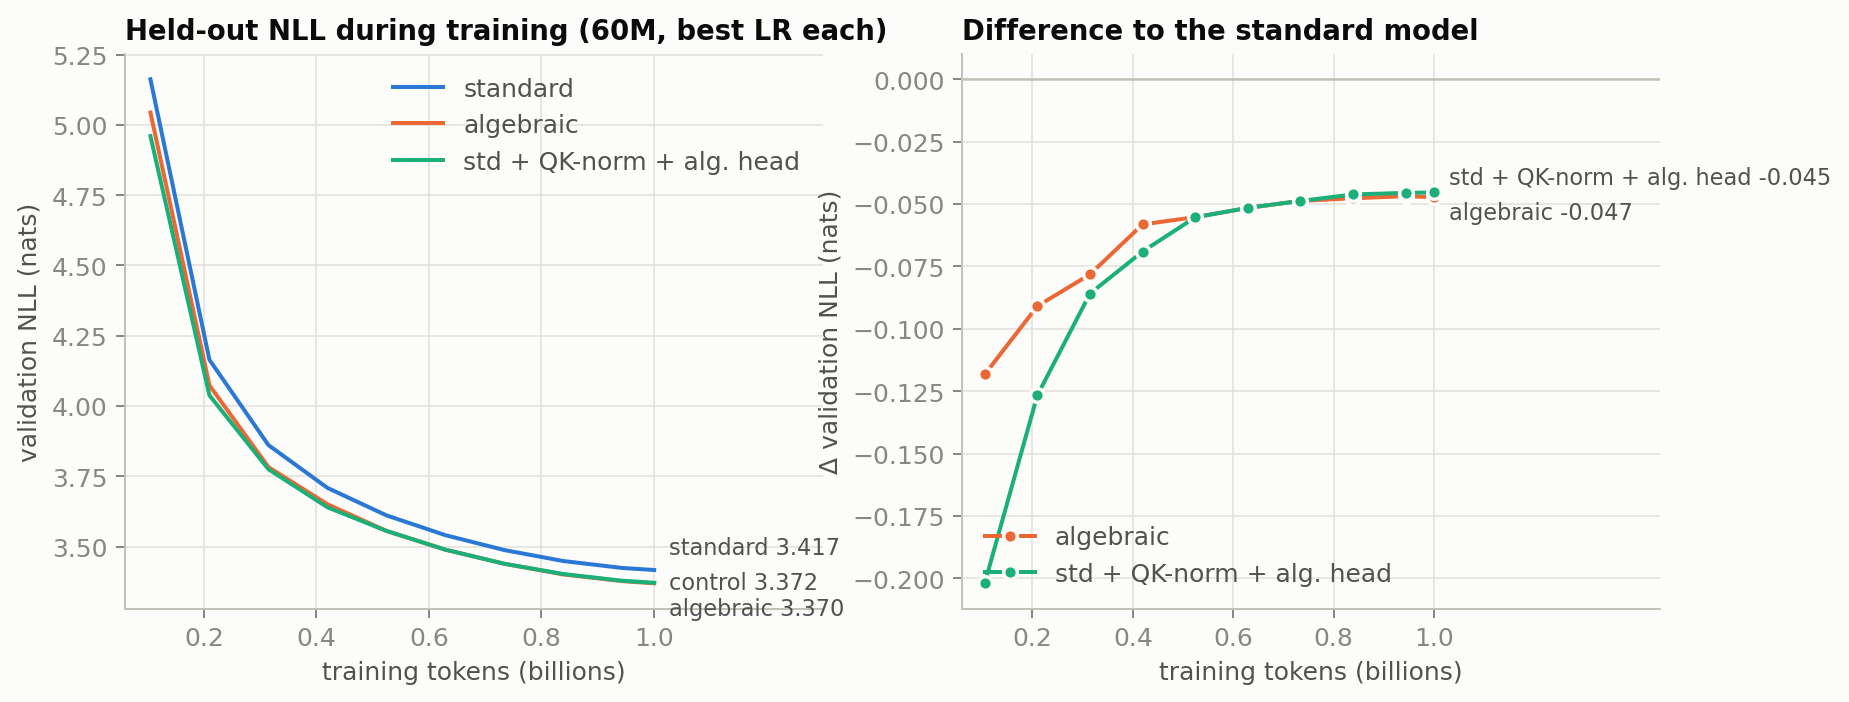
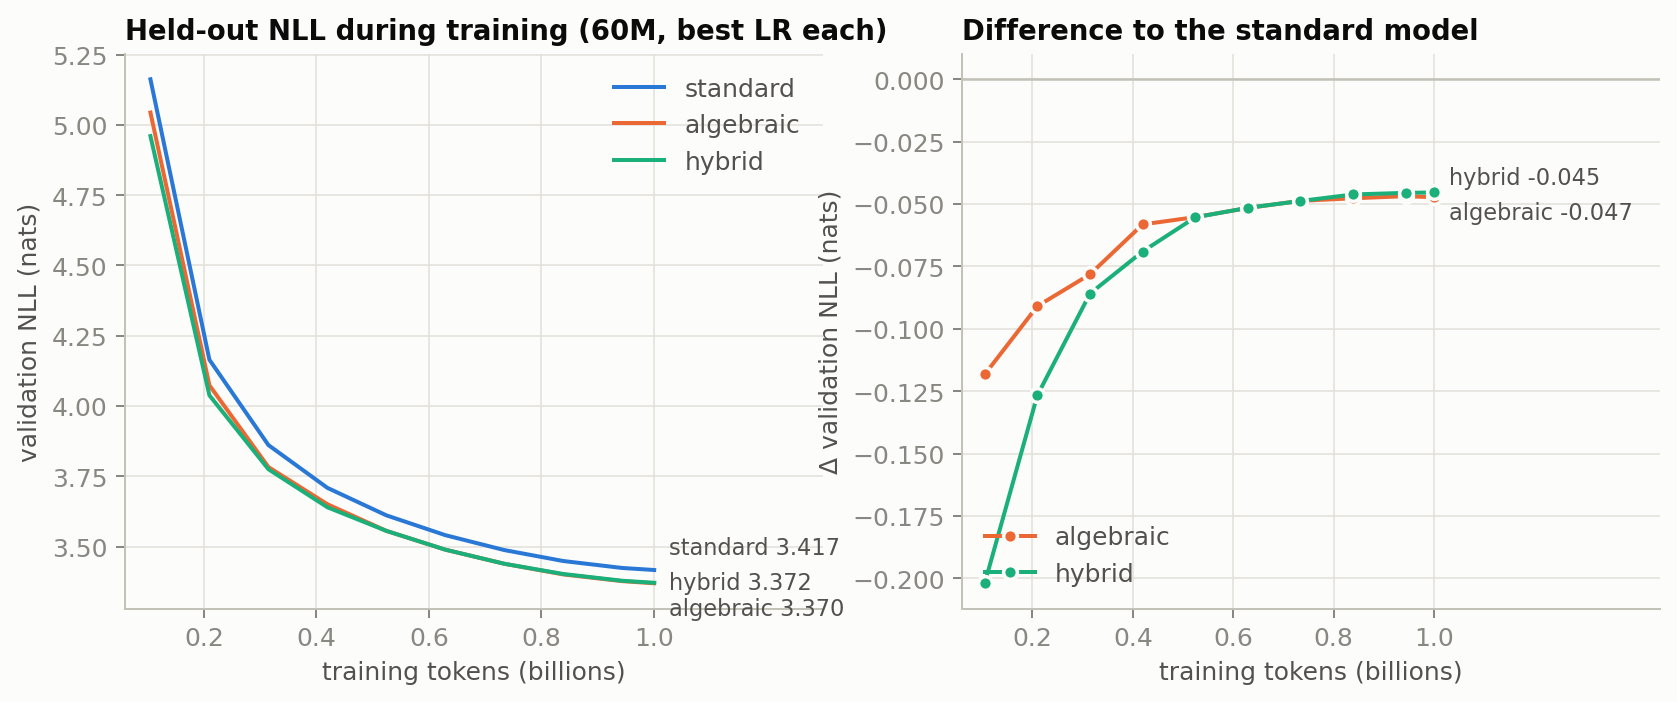
Hybrid arm in Phase 3 (60M): beats the standard by 0.045 nats at 0.88x speed
Documents the answer to 'how much algebra do we really need' (head + QK-norm)
and the 125M sweep selection (lr 3e-3 for standard and algebraic).

diff --git a/analysis/plot_figures.py b/analysis/plot_figures.py
@@ -50,17 +50,17 @@ def save(fig, name):
 def phase3():
     s = json.loads((ROOT / "results/phase3/summary.json").read_text())
     runs = s["runs"]
-    std, alg, ctl = runs[s["best"]["std"]], runs[s["best"]["alg"]], runs.get("ctrl_qk_head_lr0.003")
+    std, alg, ctl = runs[s["best"]["std"]], runs[s["best"]["alg"]], runs.get(s["best"].get("hyb", ""))
     tok = 524288 / 1e9
     fig, (a, b) = plt.subplots(1, 2, figsize=(11, 4.0))
-    for r, c, name in ((std, S1, "standard"), (alg, S2, "algebraic"), (ctl, S3, "std + QK-norm + alg. head")):
+    for r, c, name in ((std, S1, "standard"), (alg, S2, "algebraic"), (ctl, S3, "hybrid")):
         if r is None:
             continue
         xs = [p[0] * tok for p in r["curve"]]
         ys = [p[1] for p in r["curve"]]
         line(a, xs, ys, c, name, marker=False)
-        dy = {"standard": 9, "algebraic": -10, "std + QK-norm + alg. head": 0}[name]
-        end_label(a, xs[-1], ys[-1], f"{name.split(' ')[0] if name != 'std + QK-norm + alg. head' else 'control'} {ys[-1]:.3f}", dy)
+        dy = {"standard": 9, "algebraic": -10, "hybrid": 0}[name]
+        end_label(a, xs[-1], ys[-1], f"{name} {ys[-1]:.3f}", dy)
     a.set_xlim(right=1.3)
     a.set_xticks([0.2, 0.4, 0.6, 0.8, 1.0])
     a.set_title("Held-out NLL during training (60M, best LR each)")
@@ -68,7 +68,7 @@ def phase3():
     a.set_ylabel("validation NLL (nats)")
     a.legend(loc="upper right")
     base = {p[0]: p[1] for p in std["curve"]}
-    for r, c, name, dy in ((alg, S2, "algebraic", -6), (ctl, S3, "std + QK-norm + alg. head", 6)):
+    for r, c, name, dy in ((alg, S2, "algebraic", -6), (ctl, S3, "hybrid", 6)):
         if r is None:
             continue
         pts = [(p[0] * tok, p[1] - base[p[0]]) for p in r["curve"] if p[0] in base]
@@ -84,16 +84,10 @@ def phase3():
     save(fig, "phase3_curves.png")
 
     fig, ax = plt.subplots(figsize=(6.2, 4.0))
-    for arch, c, name in (("std", S1, "standard"), ("alg", S2, "algebraic")):
+    for arch, c, name, dy in (("std", S1, "standard", 0), ("alg", S2, "algebraic", -7), ("hyb", S3, "hybrid", 7)):
         pts = sorted((r["lr"], r["final_eval_nll"]) for n, r in runs.items() if n.startswith(arch + "_"))
         line(ax, [p[0] for p in pts], [p[1] for p in pts], c, name)
-        end_label(ax, pts[-1][0], pts[-1][1], name)
-    if ctl is not None:
-        ax.plot([ctl["lr"]], [ctl["final_eval_nll"]], "D", color=S3, ms=6, mec=SURFACE, mew=1.2,
-                label="std + QK-norm + alg. head", zorder=4)
-        ax.annotate("std + QK-norm + alg. head", (ctl["lr"], ctl["final_eval_nll"]), xytext=(0, -14),
-                    textcoords="offset points", ha="center", va="top", color=INK2, fontsize=9)
-        ax.set_ylim(bottom=ctl["final_eval_nll"] - 0.018)
+        end_label(ax, pts[-1][0], pts[-1][1], name, dy)
     ax.set_xscale("log", base=2)
     ax.set_xticks([1.5e-3, 3e-3, 6e-3])
     ax.set_xticklabels(["1.5e-3", "3e-3", "6e-3"])

diff --git a/analysis/phase3_summary.py b/analysis/phase3_summary.py
@@ -36,7 +36,7 @@ def main(group="p3"):
     best = {}
     for name, r in rows.items():
         arch = name.split("_")[0]
-        if arch in ("std", "alg") and (arch not in best or r["final_eval_nll"] < rows[best[arch]]["final_eval_nll"]):
+        if arch in ("std", "alg", "hyb") and (arch not in best or r["final_eval_nll"] < rows[best[arch]]["final_eval_nll"]):
             best[arch] = name
     out = {"runs": rows, "best": best}
     if "std" in best and "alg" in best:
@@ -47,6 +47,14 @@ def main(group="p3"):
             "ppl_ratio_alg_over_std": a["final_eval_ppl"] / s["final_eval_ppl"],
             "throughput_ratio_alg_over_std": a["tokens_per_s"] / s["tokens_per_s"],
         }
+    if "std" in best and "hyb" in best:
+        h, s = rows[best["hyb"]], rows[best["std"]]
+        out["comparison_hybrid"] = {
+            "hybrid": best["hyb"], "standard": best["std"],
+            "nll_difference_hyb_minus_std": h["final_eval_nll"] - s["final_eval_nll"],
+            "ppl_ratio_hyb_over_std": h["final_eval_ppl"] / s["final_eval_ppl"],
+            "throughput_ratio_hyb_over_std": h["tokens_per_s"] / s["tokens_per_s"],
+        }
     path = ROOT / "results" / "phase3" / "summary.json"
     path.parent.mkdir(parents=True, exist_ok=True)
     path.write_text(json.dumps(out, indent=1))
@@ -54,8 +62,9 @@ def main(group="p3"):
     for name, r in sorted(rows.items()):
         print(f"{name:24s} {r['lr']:8.4g} {r['final_eval_nll']:8.4f} {r['final_eval_ppl']:8.3f} "
               f"{r['tokens_per_s']/1e6:7.2f}")
-    if "comparison" in out:
-        print(json.dumps(out["comparison"], indent=1))
+    for key in ("comparison", "comparison_hybrid"):
+        if key in out:
+            print(json.dumps(out[key], indent=1))
 
 
 if __name__ == "__main__":

diff --git a/README.md b/README.md
@@ -17,7 +17,8 @@ and budget hyperparameter sweep; the main run itself is left to the author).
 | 1 | Statistics, mathematics, and Monte Carlo diagnosis of the first study; ablations; a new algebraic design | done |
 | 2 | Flash attention and fused head kernels for both arms | done |
 | 3 | 60M models, FineWeb-Edu-1B, 1B tokens, one seed, both arms | done: **algebraic wins** |
-| Main | 125M, 3 seeds, 2.5B tokens | implementation done; budget sweep running; main run left to the author |
+| + | How much algebra do we really need? A minimal-algebra hybrid | done: **hybrid wins too, at 88% of standard speed** |
+| Main | 125M, 3 seeds, 2.5B tokens | implementation and budget sweep done (hybrid sweep running); main run left to the author |
 
 ## Headline results
 
@@ -28,9 +29,11 @@ rates per arm):**
 |---|---|---|---|
 | standard (RMSNorm, SwiGLU, RoPE, softmax, cross-entropy) | 3.4170 | 30.48 | 2.70M |
 | **algebraic (v2d)** | **3.3697** | **29.07** | 1.94M |
+| **hybrid (standard + QK-norm + algebraic head)** | **3.3716** | **29.13** | 2.38M |
 
 Every algebraic run (each of its four learning rates) beat the standard's
-best run.
+best run; the hybrid's best (3 learning rates) is within 0.002 of the
+algebraic model.
 
 ![Phase 3 training curves](results/figures/phase3_curves.png)
 ![Learning-rate sensitivity](results/figures/phase3_lr.png) Proxy experiments (33M parameters, 4 paired seeds) agree:
@@ -77,10 +80,26 @@ training gradient — including the Pallas kernel bodies — contains no
 exponential, logarithmic, trigonometric, hyperbolic, sigmoid or
 error-function primitive.
 
-**What transfers.** A standard backbone given the same head and QK-norm
-matches the algebraic model (proxy −0.004 ± 0.005; 60M: 3.3716 vs 3.3697):
-the algebraic backbone now ties the standard one, and the margin over the
-standard baseline is carried by the algebraic head and QK-normalization.
+## How much algebra do we really need?
+
+Algebraic pieces were added to the standard model one rung at a time (proxy
+scale, 3–4 paired seeds per rung, t 95% intervals):
+
+![How much algebra is needed](results/figures/algebra_ladder.png)
+
+| rung | Δ NLL vs standard | share of the full gain |
+|---|---|---|
+| + algebraic likelihood head | −0.036 ± 0.007 | 59% |
+| + QK-normalization (**the hybrid**) | **−0.059 ± 0.006** | **97%** |
+| + sink, ALU-GLU, Cayley rotations | −0.055 … −0.057 | 91–94% |
+| + asinh attention (fully algebraic) | −0.061 ± 0.004 | 100% |
+
+**Answer: two algebraic pieces.** The likelihood head `ρ(z/c)^n` (trained
+by its algebraic log-loss gradient) and the rsqrt QK-normalization carry
+essentially the whole gain; the other algebraic substitutions are
+quality-neutral and are only needed to make the training path entirely free
+of transcendentals. At 60M the hybrid beats the standard model by 0.045 nats
+at 88% of its throughput, against 72% for the fully algebraic model.
 
 ## Kernels (Phase 2)
 
@@ -103,21 +122,31 @@ head is included as a low-memory option. Raw numbers: `results/kernels/`.
 
 ## Running the 125M main run
 
-The budget sweep selects learning rates per architecture (three candidates ×
-three seeds × 600M tokens, `configs/main_sweep.json`) and writes
-`configs/main_selected.json`. Then, on a TPU v4-32 with hosts `w0..w3`
-reachable over SSH (see `scripts/setup_workers.sh`):
+The budget sweep (three learning rates × three seeds × 600M tokens per
+architecture, `configs/main_sweep.json`) selected **lr 3e-3 for both the
+standard and the algebraic model** (`configs/main_selected.json`):
+
+| LR | standard | algebraic |
+|---|---|---|
+| 1.5e-3 | 3.8608 ± 0.0088 | 3.7090 ± 0.0137 |
+| **3e-3** | **3.8208 ± 0.0145** | **3.6655 ± 0.0063** |
+| 6e-3 | 4.1434 ± 0.1382 | 3.7562 ± 0.0488 |
+
+(mean ± SD over seeds 42–44; the hybrid's sweep is appended to the same
+file when it completes.) Then, on a TPU v4-32 with hosts `w0..w3` reachable
+over SSH (see `scripts/setup_workers.sh`):
 
 ```bash
 python scripts/prepare_fineweb_edu.py --output-dir ~/data/fw25 --threads 128   # 2.5B + 600M + 10M tokens
 python scripts/prepare_eval_benchmarks.py --output-dir ~/data/evals            # zero-shot tasks
-python scripts/main_run.py main > main.json         # 3 seeds x {standard, algebraic}, 2,385 steps each
+python scripts/main_run.py main > main.json         # 3 seeds x {standard, algebraic, hybrid}, 2,385 steps each
+# (add --archs standard,algebraic to run only the two original arms)
 python scripts/run_slice.py main.json --group main  # rerun the same command to resume (checkpoints every 200 steps)
 python scripts/evaluate_zero_shot.py runs/main/algebraic_s42 --out results/main/algebraic_s42_zero_shot.json
 ```
 
-Expected wall time per run: about 30 minutes (standard) and 40 minutes
-(algebraic) on 16 chips.
+Expected wall time per run on 16 chips: about 30 minutes (standard),
+35 minutes (hybrid), and 40 minutes (algebraic).
 
 ## Layout
 

diff --git a/analysis/README.md b/analysis/README.md
@@ -120,7 +120,9 @@ optimum); results in `results/phase3/summary.json`.
 | **algebraic (best)** | 3e-3 | **3.3697** | **29.07** |
 | algebraic | 4.24e-3 | 3.3750 | 29.22 |
 | algebraic | 6e-3 | 3.3711 | 29.11 |
-| control: standard + QK-norm + algebraic head | 3e-3 | 3.3716 | 29.13 |
+| hybrid | 1.5e-3 | 3.4130 | 30.36 |
+| **hybrid (best): standard + QK-norm + algebraic head** | 3e-3 | **3.3716** | **29.13** |
+| hybrid | 6e-3 | 3.3950 | 29.82 |
 
 **The algebraic model wins: −0.047 nats, perplexity 29.07 vs 30.48 (ratio
 0.954).** Every algebraic learning rate beats the standard's best, and the
@@ -148,3 +150,24 @@ Throughput: 1.94M vs 2.70M tokens/s (0.72×).
 * Associative recall, 512 distractors (3 seeds): softmax 99.51%; first-study
   kernel 65% with seed failures; asinh n=16/c=16 99.71%, n=8/c=2 99.58%,
   n=32/c=32 99.54%.
+
+## 7. How much algebra do we really need? (`algebra_ladder.py`)
+
+Algebraic pieces added to the standard model one at a time, proxy scale,
+3–4 paired seeds per rung (`results/analysis/algebra_ladder.json`):
+
+| rung | NLL | Δ vs standard (t 95% CI half-width) | share | tokens/s (1 chip) |
+|---|---|---|---|---|
+| standard | 3.8181 | 0 | 0% | 333K |
+| + algebraic head | 3.7840 | −0.036 (0.029) | 59% | 317K |
+| QK-norm only | 3.7914 | −0.029 (0.008) | 47% | 309K |
+| **+ QK-norm = hybrid** | **3.7613** | **−0.059 (0.027)** | **97%** | **294K** |
+| + sink | 3.7647 | −0.055 (0.020) | 91% | 294K |
+| + ALU-GLU | 3.7630 | −0.057 (0.015) | 94% | 286K |
+| + Cayley rotations | 3.7642 | −0.056 (0.006) | 92% | 286K |
+| + asinh attention = algebraic | 3.7574 | −0.061 (0.014) | 100% | 249K |
+
+The head and QK-normalization carry the gain; everything after them is
+quality-neutral. The hybrid is the cheapest model that beats the standard by
+the full margin (Phase 3: −0.045 nats at 0.88× standard throughput).
+

diff --git a/paper/theory.md b/paper/theory.md
@@ -209,13 +209,14 @@ standard backbone the two backbones tie (−0.004 ± 0.005).
 
 FineWeb-Edu-1B, context 2048, 1,908 steps of 524,288 tokens, cosine AdamW,
 one seed, 8M held-out tokens. Learning rates tried per arm:
-{1.5, 2.12, 3, 6}·10⁻³ (standard) and {1.5, 3, 4.24, 6}·10⁻³ (algebraic).
+{1.5, 2.12, 3, 6}·10⁻³ (standard), {1.5, 3, 4.24, 6}·10⁻³ (algebraic),
+{1.5, 3, 6}·10⁻³ (hybrid; 3.4130, 3.3716, 3.3950).
 
 | arm | best LR | NLL | perplexity | tokens/s (16 chips) |
 |---|---|---|---|---|
 | standard | 3e-3 | 3.4170 | 30.48 | 2.70M |
 | **algebraic (v2d)** | 3e-3 | **3.3697** | **29.07** | 1.94M |
-| control: standard + QK-norm + algebraic head | 3e-3 | 3.3716 | 29.13 | 2.38M |
+| hybrid: standard + QK-norm + algebraic head | 3e-3 | 3.3716 | 29.13 | 2.38M |
 
 Algebraic − standard = −0.047 nats (perplexity ratio 0.954); every algebraic
 run (worst: 3.4058 at 1.5e-3) beats the standard's best. The algebraic NLL is
@@ -223,8 +224,8 @@ flat over 3–6·10⁻³ (3.3697–3.3750) where the standard degrades sharply a
 6·10⁻³ (3.4992). The advantage is nearly uniform over context positions
 (−0.04 to −0.05 nats from position 4 on, −0.049 at 1024–2048) and slightly
 negative only at position 0 (+0.011, the context-free unigram prediction).
-As at the proxy scale, the backbone ties a standard backbone that carries
-the same head and QK-norm (3.3697 vs 3.3716).
+As at the proxy scale, the algebraic backbone ties a standard backbone that
+carries the same head and QK-norm (the hybrid: 3.3697 vs 3.3716).
 
 ## 12. How much algebra do we really need? (measured)
 
